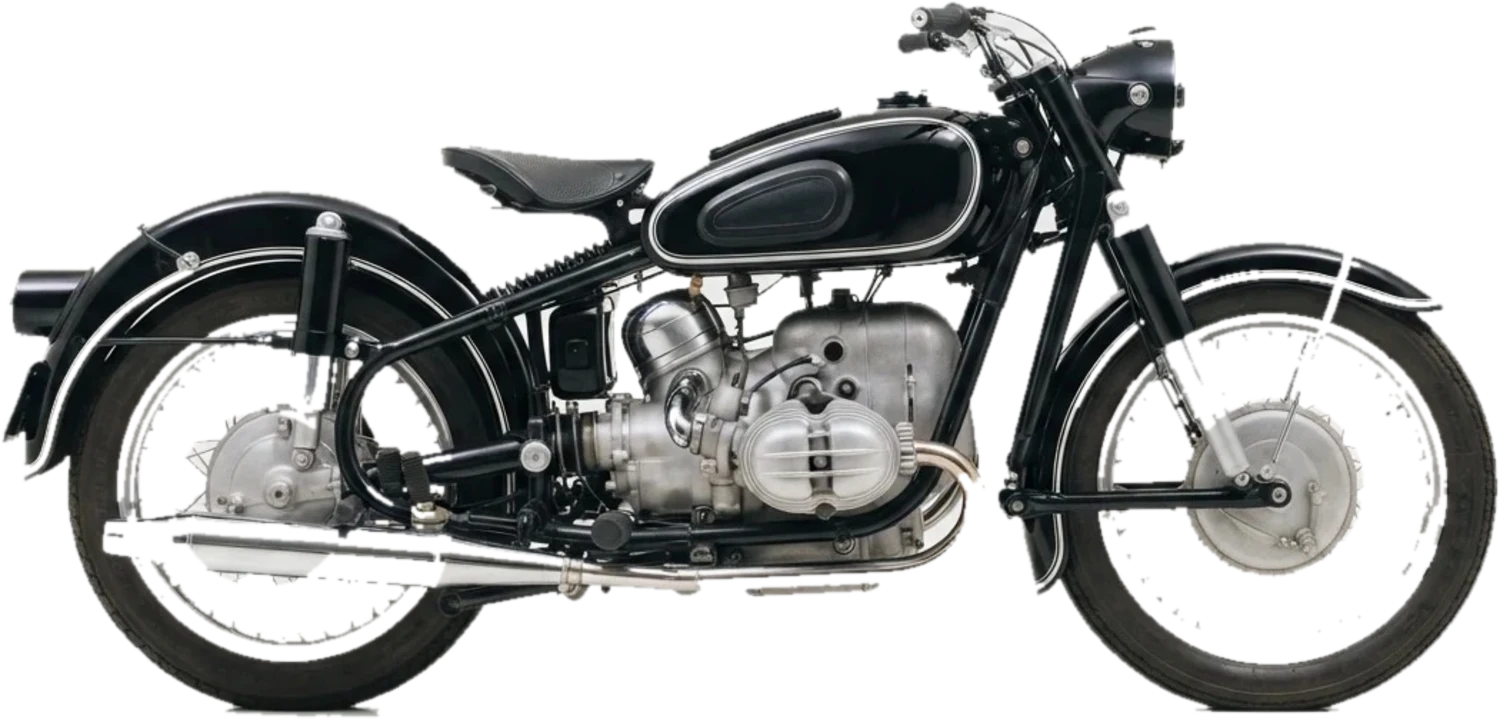
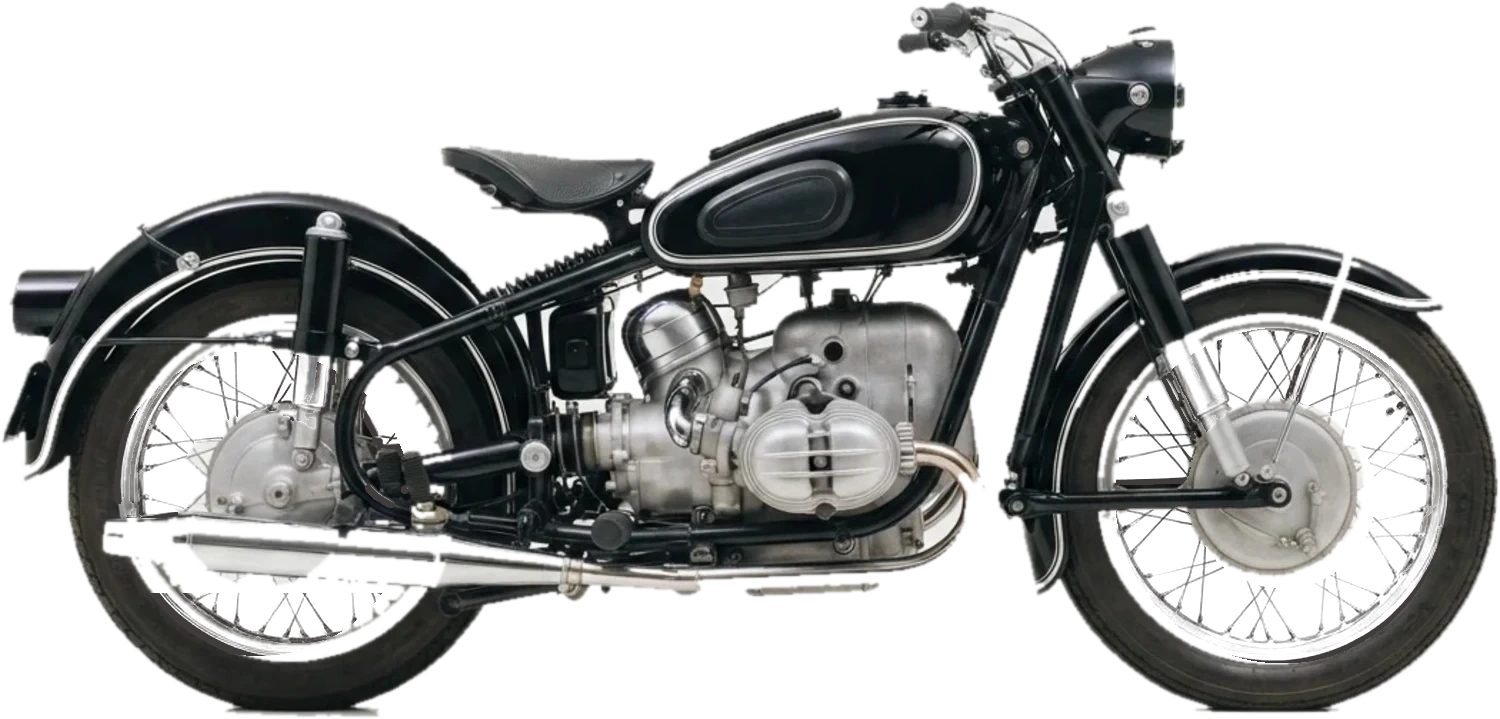
Garagem 74: faixa coral apos Our Story e raios da roda

diff --git a/src/components/models/MotoFold.tsx b/src/components/models/MotoFold.tsx
@@ -68,7 +68,8 @@ export function MotoFold({ client }: { client?: { name?: string; whatsapp?: stri
         .mt .strip b{display:block;font-size:30px;font-weight:600}.mt .strip span{font-size:14px;font-weight:500;letter-spacing:.12em;text-transform:uppercase;color:#4a4543}
         .mt h2{font-weight:600;font-size:clamp(34px,4.4vw,52px);letter-spacing:.01em;margin:0;line-height:1.05}
         .mt h2 .c{font-size:1.18em}
-        .mt .story{padding:96px 0 40px;display:grid;grid-template-columns:1fr 250px;gap:90px;align-items:center;max-width:900px;margin:0 auto}
+        .mt .hist{background:linear-gradient(#fff calc(100% - 80px),${CO} calc(100% - 80px));margin-bottom:60px}
+        .mt .story>div:first-child{padding-bottom:110px}.mt .story .fr{margin-bottom:-14px}.mt .story{padding:96px 0 0;display:grid;grid-template-columns:1fr 250px;gap:90px;align-items:end;max-width:900px;margin:0 auto}
         .mt .story h2{font-size:clamp(26px,2.8vw,38px)}.mt .story p{font-size:16px;font-weight:500;line-height:1.7;margin:20px 0 0;color:#2b2625}
         .mt .link{display:inline-block;margin-top:24px;font-weight:700;font-size:14px;letter-spacing:.16em;text-transform:uppercase;border-bottom:2px solid ${CO};padding-bottom:4px;color:${INK};text-decoration:none;cursor:pointer}
         .mt .serv{padding:84px 0 40px}
@@ -108,7 +109,7 @@ export function MotoFold({ client }: { client?: { name?: string; whatsapp?: stri
           .mt .wrap{padding:0 20px}
           .mt .nav{grid-template-columns:1fr auto;height:68px}.mt .links,.mt .navcta{display:none}.mt .burger{display:block}
           .mt .mob{display:block;background:#fff;margin:0 16px 14px;box-shadow:0 8px 24px rgba(0,0,0,.2);position:relative;z-index:6}.mt .mob a{display:block;padding:15px 20px;cursor:pointer;border-top:1px solid #f1e3e2;font-weight:600;letter-spacing:.1em;text-transform:uppercase;font-size:13px}.mt .mob a:first-child{border:0}
-          .mt .story{grid-template-columns:1fr;gap:30px;padding-top:60px}.mt .story .fr{max-width:220px;margin:0 auto}
+          .mt .story{grid-template-columns:1fr;gap:30px;padding-top:60px}.mt .story>div:first-child{padding-bottom:0}.mt .story .fr{max-width:220px;margin:0 auto}
           .mt .rh{grid-template-columns:34px 1fr 38px;gap:12px}.mt .rh .p{display:none}.mt .rb p{margin-left:46px}
           .mt .form{grid-template-columns:1fr;padding:24px 20px}.mt .chips,.mt .form .go{grid-column:span 1}.mt .form .go{justify-self:stretch;padding:16px 12px}
           .mt .unit{grid-template-columns:1fr;gap:26px}
@@ -141,7 +142,7 @@ export function MotoFold({ client }: { client?: { name?: string; whatsapp?: stri
         <div><b>Laudo escrito</b><span>Em toda revisão</span></div>
       </div>
 
-      <div className="wrap" id="historia">
+      <div className="hist" id="historia"><div className="wrap">
         <div className="story">
           <div>
             <h2><span className="c">N</span>ossa <span className="c">H</span>istória</h2>
@@ -151,7 +152,7 @@ export function MotoFold({ client }: { client?: { name?: string; whatsapp?: stri
           </div>
           <div className="fr"><div className="fsh" /><img src="/garagem-frente.webp" alt="Moto clássica boxer vista de frente" style={{ width: "100%", height: "auto", display: "block" }} /></div>
         </div>
-      </div>
+      </div></div>
 
       <div className="wrap serv" id="servicos">
         <h2 style={{ marginBottom: 36 }}><span className="c">S</span>erviços</h2>
